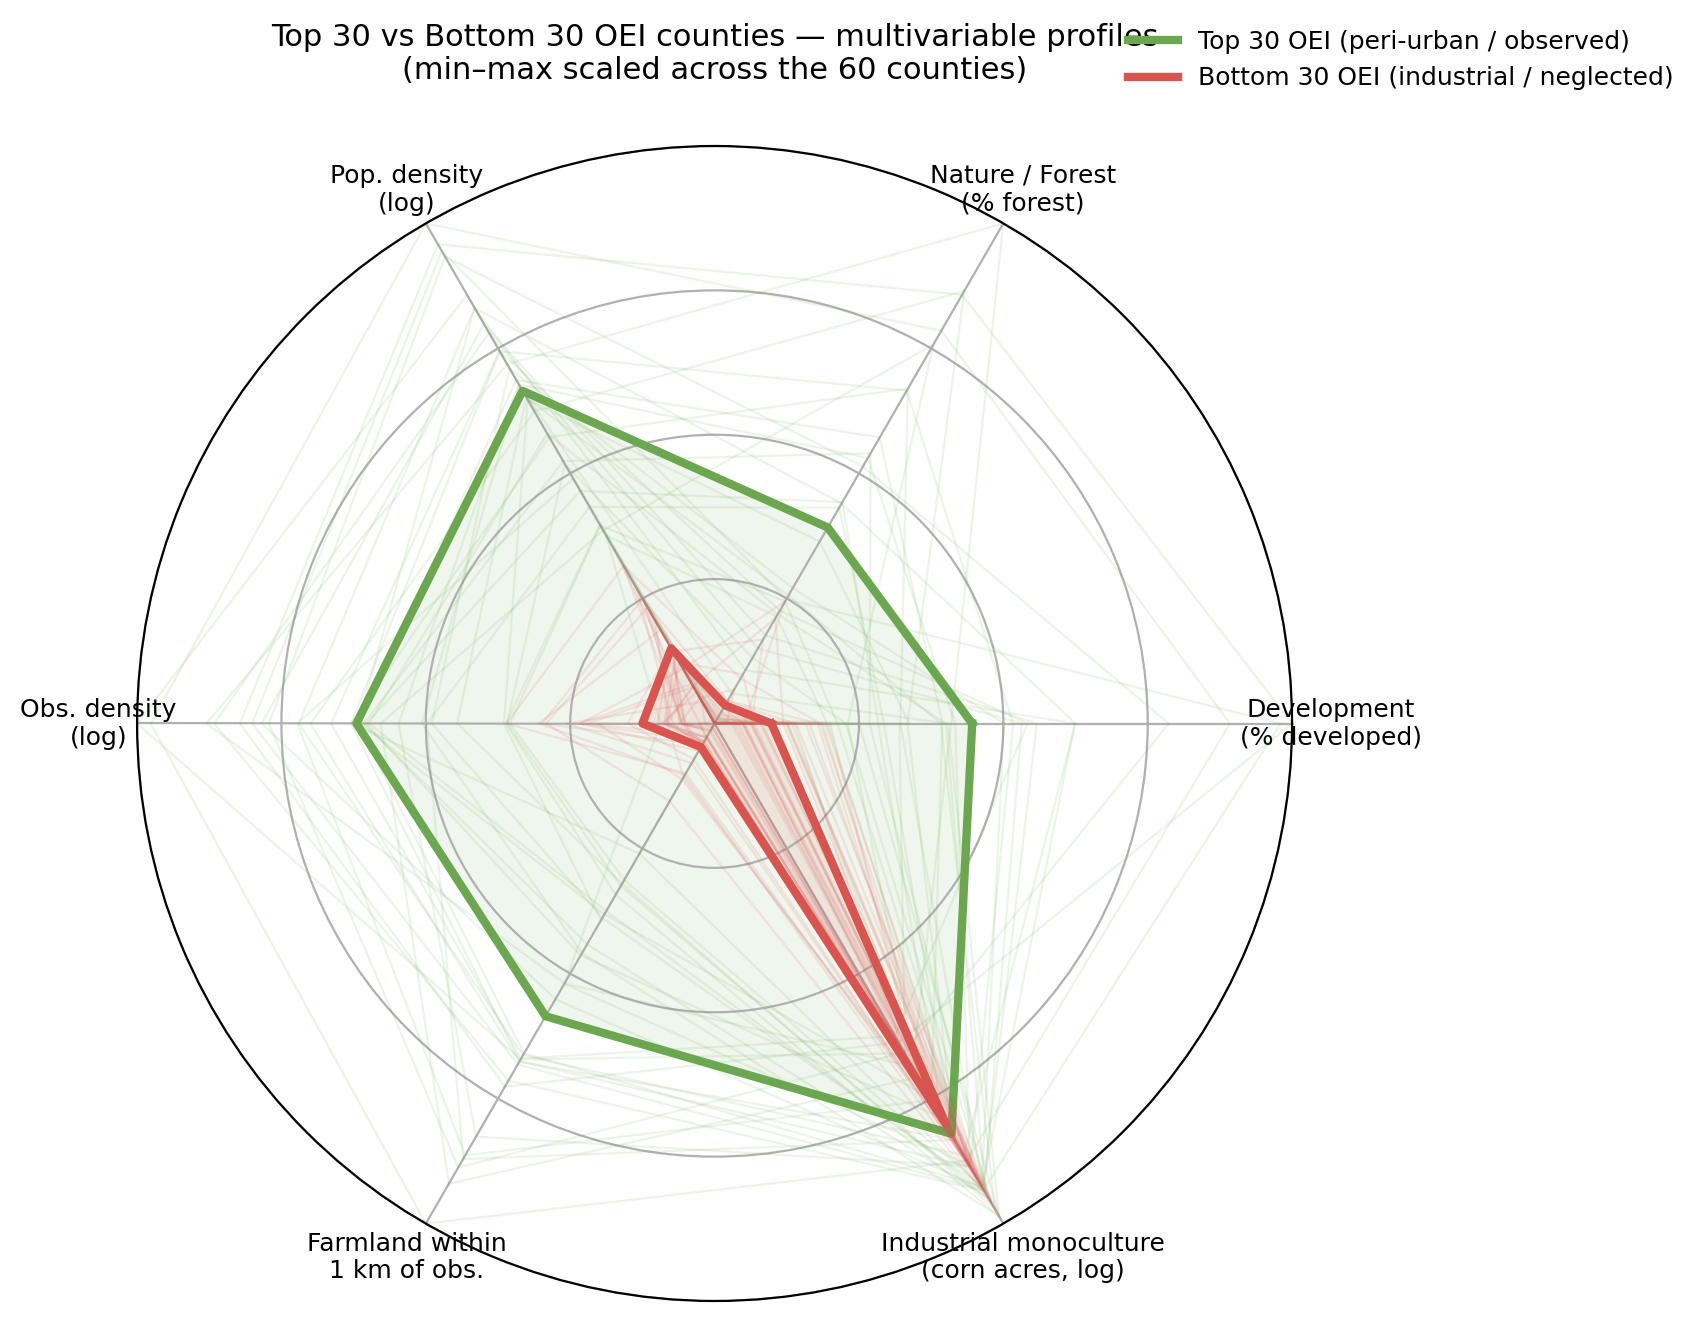
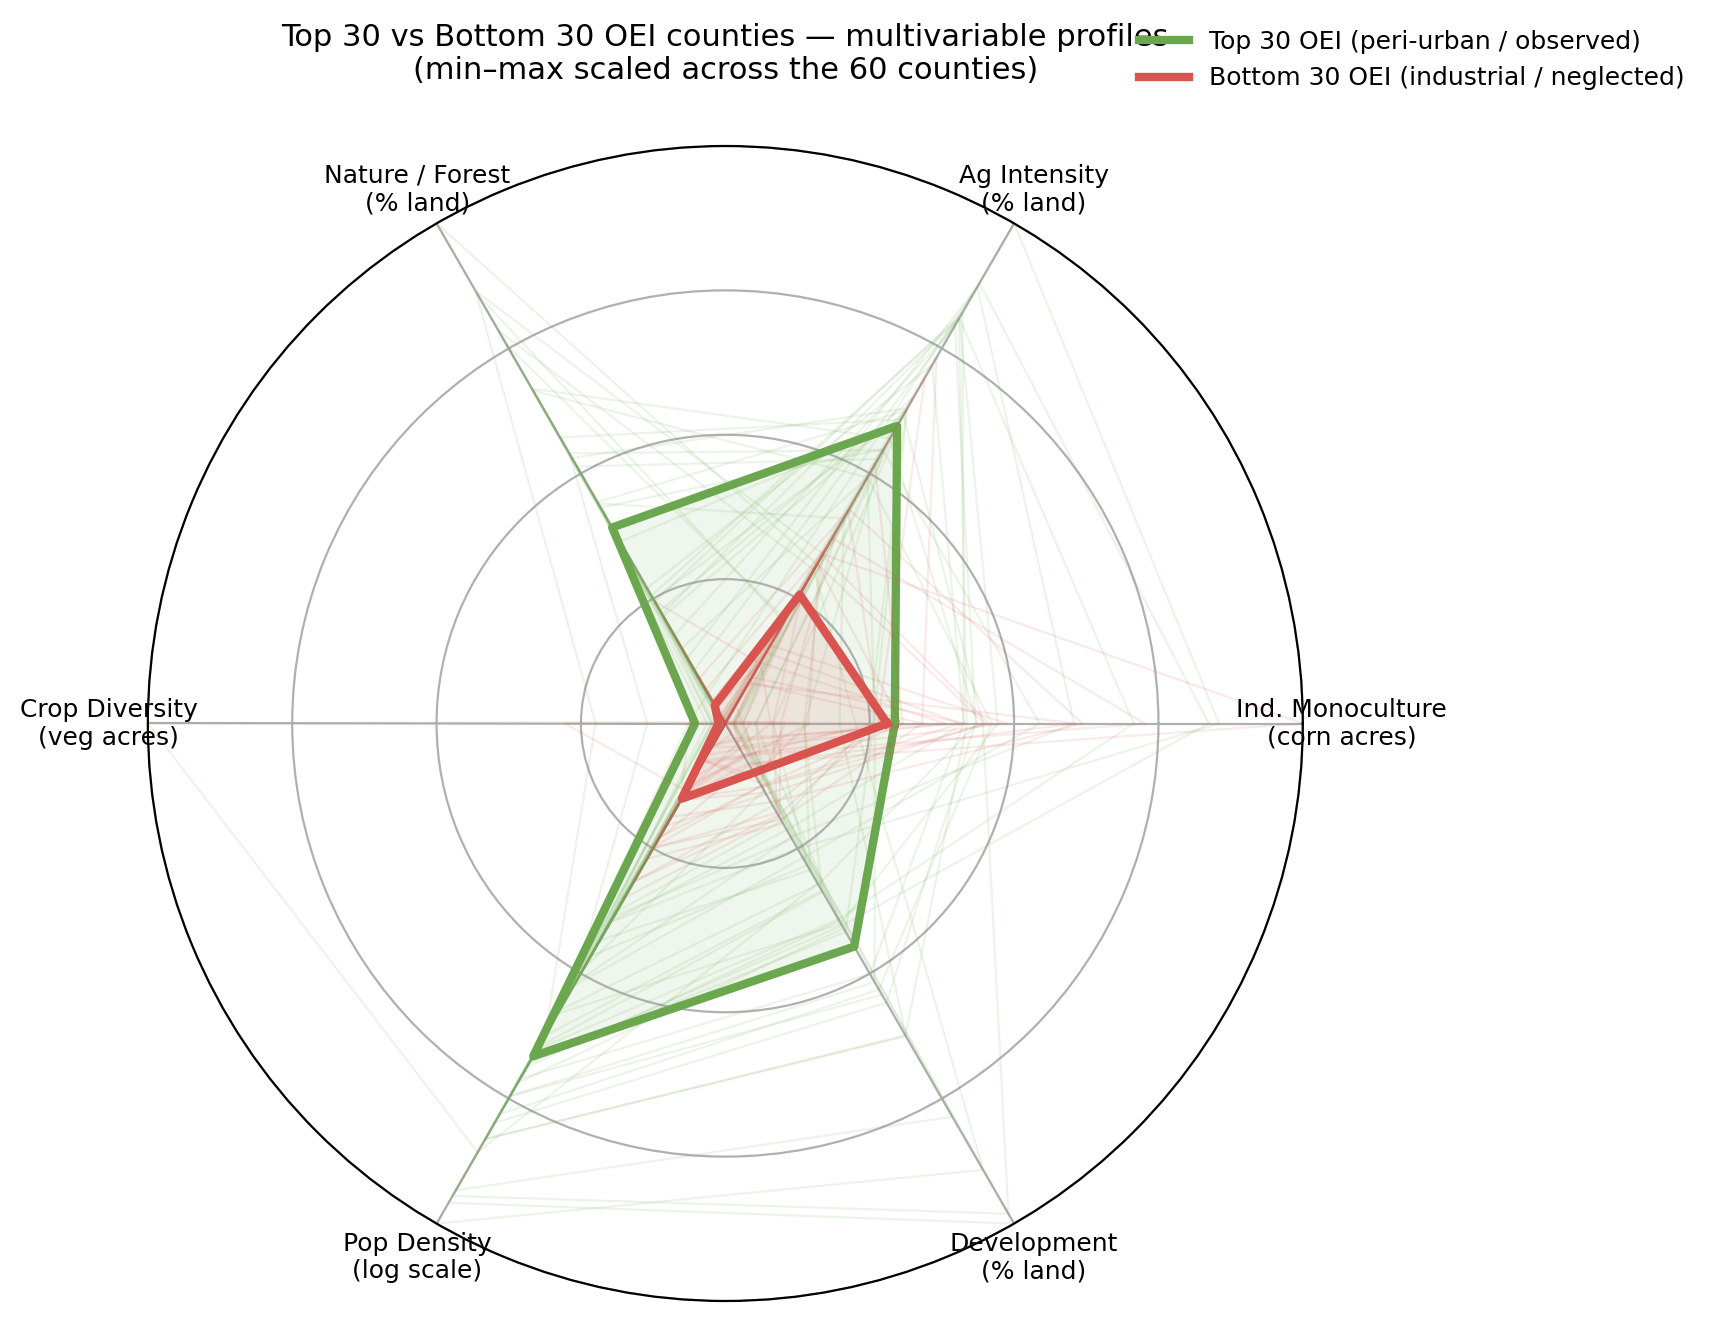
Figure S3 reconstruction: use the six axes of the published figure

diff --git a/04_figures/figS3_spider_plot.py b/04_figures/figS3_spider_plot.py
@@ -6,9 +6,9 @@ Added at packaging (September 2026). The original spider plot was produced inter
 no script survived, so this file re-creates it from the shipped data
 (`../data/top_bottom_30/counties_enriched_with_usda_data.csv`, produced by fetch_usda_nass_acres.py).
 Six axes, each min–max scaled to 0–1 across the 60 counties; heavy line = group mean, faint lines =
-individual counties. Axis choices follow the Figure S3 caption (Development, Nature/Forest, Pop
-Density (log), Industrial Monoculture = corn acres harvested) plus observation density (log) and
-farmland coverage; confirm against the published figure before reuse.
+individual counties. Axes match the published figure: Development (% land), Industrial Monoculture
+(corn acres), Ag Intensity (% land), Nature/Forest (% land), Crop Diversity (vegetable acres),
+Pop Density (log scale).
 """
 import os
 import numpy as np
@@ -18,13 +18,13 @@ import matplotlib.pyplot as plt
 HERE = os.path.dirname(os.path.abspath(__file__))
 df = pd.read_csv(os.path.join(HERE, "..", "data", "top_bottom_30", "counties_enriched_with_usda_data.csv"))
 
-axes_spec = [  # (label, column, log?)
-    ("Development\n(% developed)", "PERCENT_DEVELOPED", False),
-    ("Nature / Forest\n(% forest)", "PERCENT_FOREST", False),
-    ("Pop. density\n(log)", "POPULATION_DENSITY_2023_KM2", True),
-    ("Obs. density\n(log)", "GBIF_OBS_DENSITY_KM2", True),
-    ("Farmland within\n1 km of obs.", "PERCENTAGE_OF_AG_LAND_WITHIN_1KM_GBIF_OBS", False),
-    ("Industrial monoculture\n(corn acres, log)", "CORN_ACRES", True),
+axes_spec = [  # (label, column, log?) — clockwise from the top, as in the published Figure S3
+    ("Ind. Monoculture\n(corn acres)", "CORN_ACRES", False),
+    ("Ag Intensity\n(% land)", "PERCENT_AGRICULTURE", False),
+    ("Nature / Forest\n(% land)", "PERCENT_FOREST", False),
+    ("Crop Diversity\n(veg acres)", "VEGETABLE_ACRES", False),
+    ("Pop Density\n(log scale)", "POPULATION_DENSITY_2023_KM2", True),
+    ("Development\n(% land)", "PERCENT_DEVELOPED", False),
 ]
 X = np.column_stack([np.log10(df[c] + 1) if lg else df[c].astype(float) for _, c, lg in axes_spec])
 X = (X - X.min(0)) / (X.max(0) - X.min(0))

diff --git a/04_figures/README.md b/04_figures/README.md
@@ -23,6 +23,6 @@ Illustrator. No script exists; the attribute table is the reproducible artefact.
 **Figure S3 caveat.** The published spider plot was made interactively; no script survived.
 `figS3_spider_plot.py` rebuilds it from the shipped data. The six axes follow the Figure S3 caption
 (development, forest, log population density, corn acres) plus log observation density and farmland
-coverage — check the last two against the published figure before reuse.
+— the same six axes as the published figure (development, corn acres, % agriculture, forest, vegetable acres, log population density).
 
 **Figure 1** is an illustration (Google Gemini-assisted) with no code. **Table S1** is qualitative.
